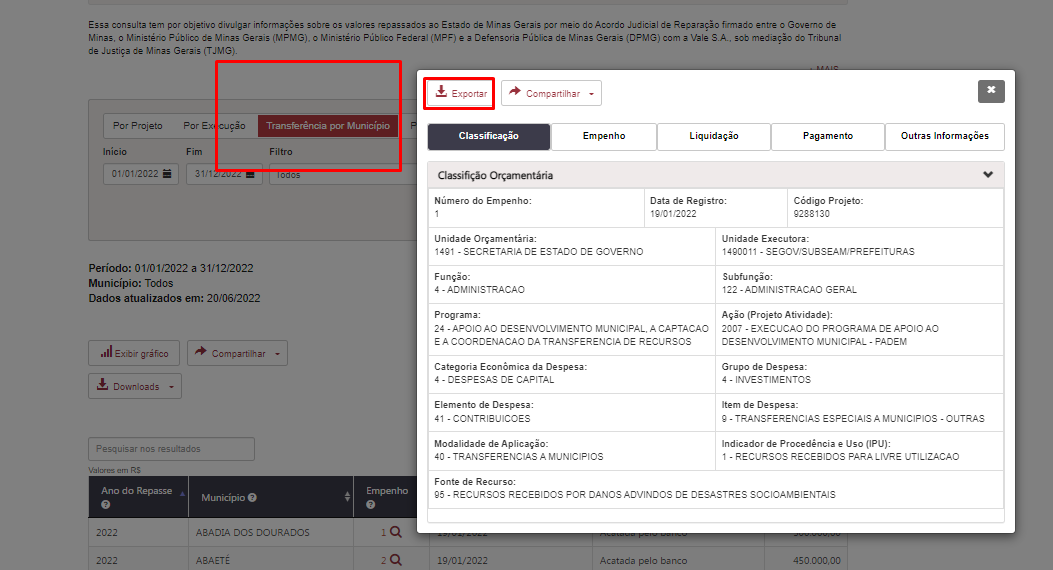
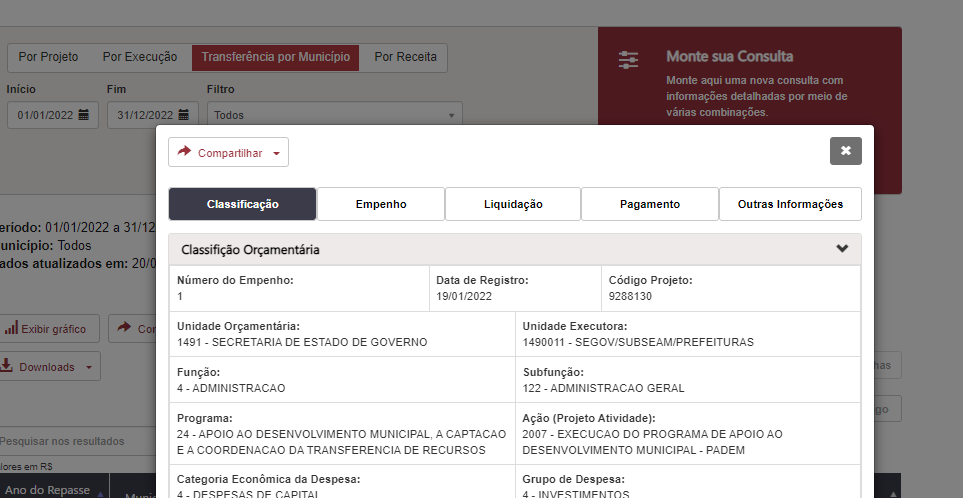
continua conferência dos dados conforme liberação do dia 23/06

diff --git a/espec018_recursos-acordo-judicial-vale/recursos-vale-homologa-layout-parte4.md b/espec018_recursos-acordo-judicial-vale/recursos-vale-homologa-layout-parte4.md
@@ -38,10 +38,10 @@ O empenho citado como exemplo apenas foi inscrito em RP em 2022 não havendo nen
 </div>
 
 ---
-<div class="alert alert-danger">
+<div class="alert alert-success">
 
 ## 3.Filtro favorecido da consulta por Execução
-**CORRIGIDO PARCIALMENTE** - Verificado em 13/06/2022
+**CORRIGIDO** - Verificado em 27/06/2022
 --
 A mensagem foi aplicada apenas no filtro "Favorecido por nome". Favor colocar a mensagem no filtro "Favorecido por CNPJ/CPF"
 Ao clicar no filtro 'Favorecido por nome' ou Favorecido por CPF/CNPJ' e não escolher nenhum favorecido e clicar em pesquisar o usuário é direcionado para a página inicial da consulta Por Execução sem nenhuma mensagem.
@@ -114,10 +114,10 @@ Nota: Sugiro que o botão exibir/oculta código fique desabilitado ou invisível
 ![](static/imagens/homologacao/legenda-grafico2.png)
 </div>
 
-<div class="alert alert-danger">
+<div class="alert alert-success">
 
 **Consulta Por Receita - Gráfico de barras:**
-**CORRIGIDO PARCIALMENTE** - Verificado em 13/06/2022
+**CORRIGIDO** - Verificado em 27/06/2022
 ---
 Ficou pendente a correção do item 1 "*O gráfico deve-se referir a Classificação da Receita e não a Fonte de Recurso;*"
 
@@ -203,11 +203,11 @@ O exemplo abaixo demonstra que ao selecionar o órgão DEER esse possui 4 projet
 </div>
 
 ---
-<div class="alert alert-danger">
+<div class="alert alert-success">
 
 ## 13. Download PDF - Tabela Modal - Monte sua pesquisa
 
-**O botão não está funcionando para fazermos os testes** - Verificado em 21/06/2022
+**CORRIGIDO** - Verificado em 27/06/2022
 --
 
 - Os valores de subtotal e total não estão sendo exibidos na extração em PDF.
@@ -237,14 +237,14 @@ Obs: O processo consiste em um download do PDf que é gerado em tempo real. Não
 </div>
 ----
 
+<div class="alert alert-danger">
 
----
 ## 15.Download CSV - Tabela Modal - Monte sua pesquisa
 
 - a extração em CSV está apresentando o valor SUBTOTAl e não o valor TOTAL
 
 ![](static/imagens/homologacao/csv-tabela-modal.png)
-
+</div>
 ---
 
 <div class="alert alert-success">
@@ -361,16 +361,16 @@ O botão até foi incluído, porém ele deve ser estilisticamente diferente dos 
 </div>
 
 ---
-<div class="alert alert-danger">
+<div class="alert alert-success">
 
 ## 25.Lista de empenhos - Monte sua pesquisa
 
-**O ERRO AINDA OCORRE** verificado dia 21/06/2022
+**CORRIGIDO** verificado dia 27/06/2022
 --
 
 - Ao clicar em algum empenho na tabela modal o portal apresenta ERRO
 
-![](static/imagens/homologacao/lista-empenho-tabela-modal.gif)
+![](static/imagens/homologacao/detalhar-monte-sua-pesquisa.gif)
 </div>
 
 ---
@@ -390,10 +390,13 @@ Ao escrever a palavra 'construc' com o "C" sem o cedinha a busca não é realiza
 </div>
 
 ---
-<div class="alert alert-danger">
+<div class="alert alert-success">
 
 ## 27. Detalhar - Monte sua pesquisa
-O erro ainda está ocorrendo - verificado 15/06/2022 [link](https://age7-novo.homologacao.prodemge.gov.br/eventos-extraordinarios/acordo-judicial-reparacao-vale?task=estado_recursosvale.listarConsultaLivre&amp;jform[ID_UNIDADE_ORC][0]=2351&amp;jform[datainicio]=01/01/2022&amp;jform[datafim]=31/05/2022&amp;jform[codigo]=0&amp;jform[colunas]=PERIODO,ORGAO,VR_EMPENHADO,VR_LIQUIDADO,VR_PAGO,VR_LIQUIDADO_RP,VR_PAGO_RP,VR_PAGO_TOTAL&amp;jform[push]=ORGAO#:64a8e1d9a461b69bfb57fe9958f975df)
+
+**CORRIGIDO** verificado dia 27/06/2022
+
+[link](https://age7-novo.homologacao.prodemge.gov.br/eventos-extraordinarios/acordo-judicial-reparacao-vale?task=estado_recursosvale.listarConsultaLivre&amp;jform[ID_UNIDADE_ORC][0]=2351&amp;jform[datainicio]=01/01/2022&amp;jform[datafim]=31/05/2022&amp;jform[codigo]=0&amp;jform[colunas]=PERIODO,ORGAO,VR_EMPENHADO,VR_LIQUIDADO,VR_PAGO,VR_LIQUIDADO_RP,VR_PAGO_RP,VR_PAGO_TOTAL&amp;jform[push]=ORGAO#:64a8e1d9a461b69bfb57fe9958f975df)
 --
 A depender do filtro que o usuário está usando ao clicar no botão detalhar ele é direcionado para a página inicial do PdT
 
@@ -471,7 +474,7 @@ Conforme relatado no issues [#71](https://github.com/transparencia-mg/especifica
 
 ## 34.Compartilhar
 
-**CORRIGIDO PARCIALMENTE** - Verificado em 20/06/2022 => O link copiado não está funcionado dentro do formulário de detalhamento por meio da pesquisa avançada. Ver gif abaixo
+**Não Corrigido** - Verificado em 27/06/2022 => O link copiado não está funcionado dentro do formulário de detalhamento por meio da pesquisa avançada. Ver gif abaixo
 
 Conforme relatado no issues [#72](https://github.com/transparencia-mg/especificacoes-portal-transparencia/issues/72) o Link do Compartilhar > Copiar Link não abre o detalhamento em novo formulário de acesso
 
@@ -482,7 +485,7 @@ Conforme relatado no issues [#72](https://github.com/transparencia-mg/especifica
 <div class="alert alert-success">
 
 ## 35. Formulário de detalhamento - Dados do Processo de Compra
-**CORRIGIDO PARCIALMENTE** - Verificado em 13/06/2022
+**CORRIGIDO** - Verificado em 13/06/2022
 ---
 -Nome incorreto para seção Dados do Processo de Compra no formulário de detalhamento [#73](https://github.com/transparencia-mg/especificacoes-portal-transparencia/issues/73)
 
@@ -494,7 +497,8 @@ Conforme relatado no issues [#72](https://github.com/transparencia-mg/especifica
 <div class="alert alert-danger">
 
 ## 36.Barra Vertical - CPF/CNPJ Favorecido
-**CORRIGIDO PARCIALMENTE** - Verificado em 20/06/2022
+
+**NÃO CORRIGIDO** - Verificado em 27/06/2022 - O erro ainda persiste
 --
 
 Considerando a opção 2 aplicada temos as seguinte ressalva a ser corrigida:
@@ -661,11 +665,11 @@ Não entendi a sua colocação.
 </div>
 
 ---
-<div class="alert alert-danger">
+<div class="alert alert-success">
 
 ## 46. Subtotal
 
-**Não corrigido** - Verificado em 26/05/2022
+**corrigido** - Verificado em 27/06/22
 
 Conforme documentação a opção SUBTOTAL só deve aparecer quando for aplicado algum filtro ou houver paginação dos dados.
 
@@ -737,7 +741,8 @@ Exemplo: Quando digita apenas 'Francisco' o campo busca funciona corretamente, p
 </div>
 
 ----
-div class="alert alert-danger">
+
+<div class="alert alert-success">
 
 ## 51. Botão Exportar - Formulário de detalhamento
 
@@ -750,5 +755,27 @@ div class="alert alert-danger">
 O botão exportar deve ser retirado de todos os formulários de detalhamento, uma vez que não essa funcionalidade está desativada.[link](https://age7-novo.homologacao.prodemge.gov.br/eventos-extraordinarios/acordo-judicial-reparacao-vale?task=estado_recursosvale.listarMunicipios&amp;ano=&amp;dataInicio=01/01/2022&amp;dataFim=31/12/2022&amp;consulta=3&amp;filtro=#;14630828)
 
 ![](static/imagens/homologacao/exportar-formulario-municipio.png)
+
+</div>
+
+# Novos itens identificados na conferência do dia 21/06/2022:
+
+
+<div class="alert alert-danger">
+
+## 52. Falta colunas na tabela modal - monte sua pesquisa
+
+Verificado dia 27/06/2022
+--
+Ao clicar na lupa e ir para a tabela modal dos empenhos essa tabela não está exibindo por exemplo a coluna Valor Empenhado, Valor Pago, valor Pago em RP, Órgão, Unidade Executora, CNPJ favorecido
+--
+
+
+A tabela modal que lista os empenhos na consulta avançada não está apresentando as colunas definidas como padrão. Esse problema ocorreu na dispobinilização da última versão do dia 20/06/2022.[Ver documentação](https://github.com/transparencia-mg/especificacoes-portal-transparencia/blob/master/espec018_recursos-acordo-judicial-vale/especifica%C3%A7%C3%A3o/recursos-vale-dados.md#tabela-de-resultados)
+
+
+![](static/imagens/homologacao/falta-coluna-tabela-modal.png)
+
+![](static/imagens/homologacao/tabela-modal-colunas.gif)
 
 </div>
